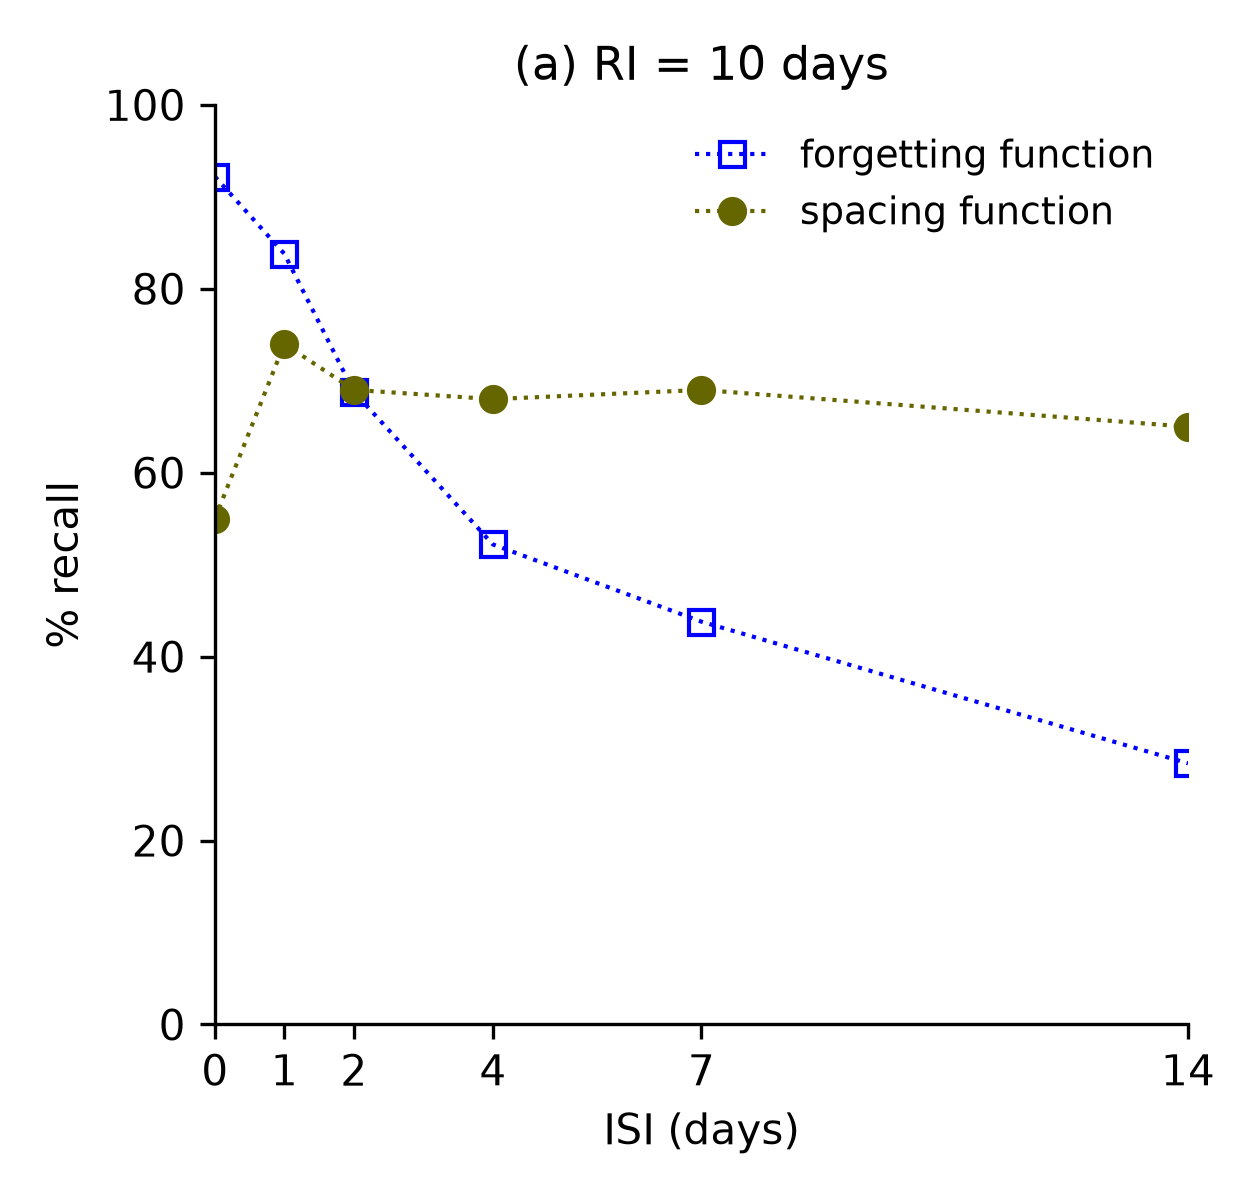
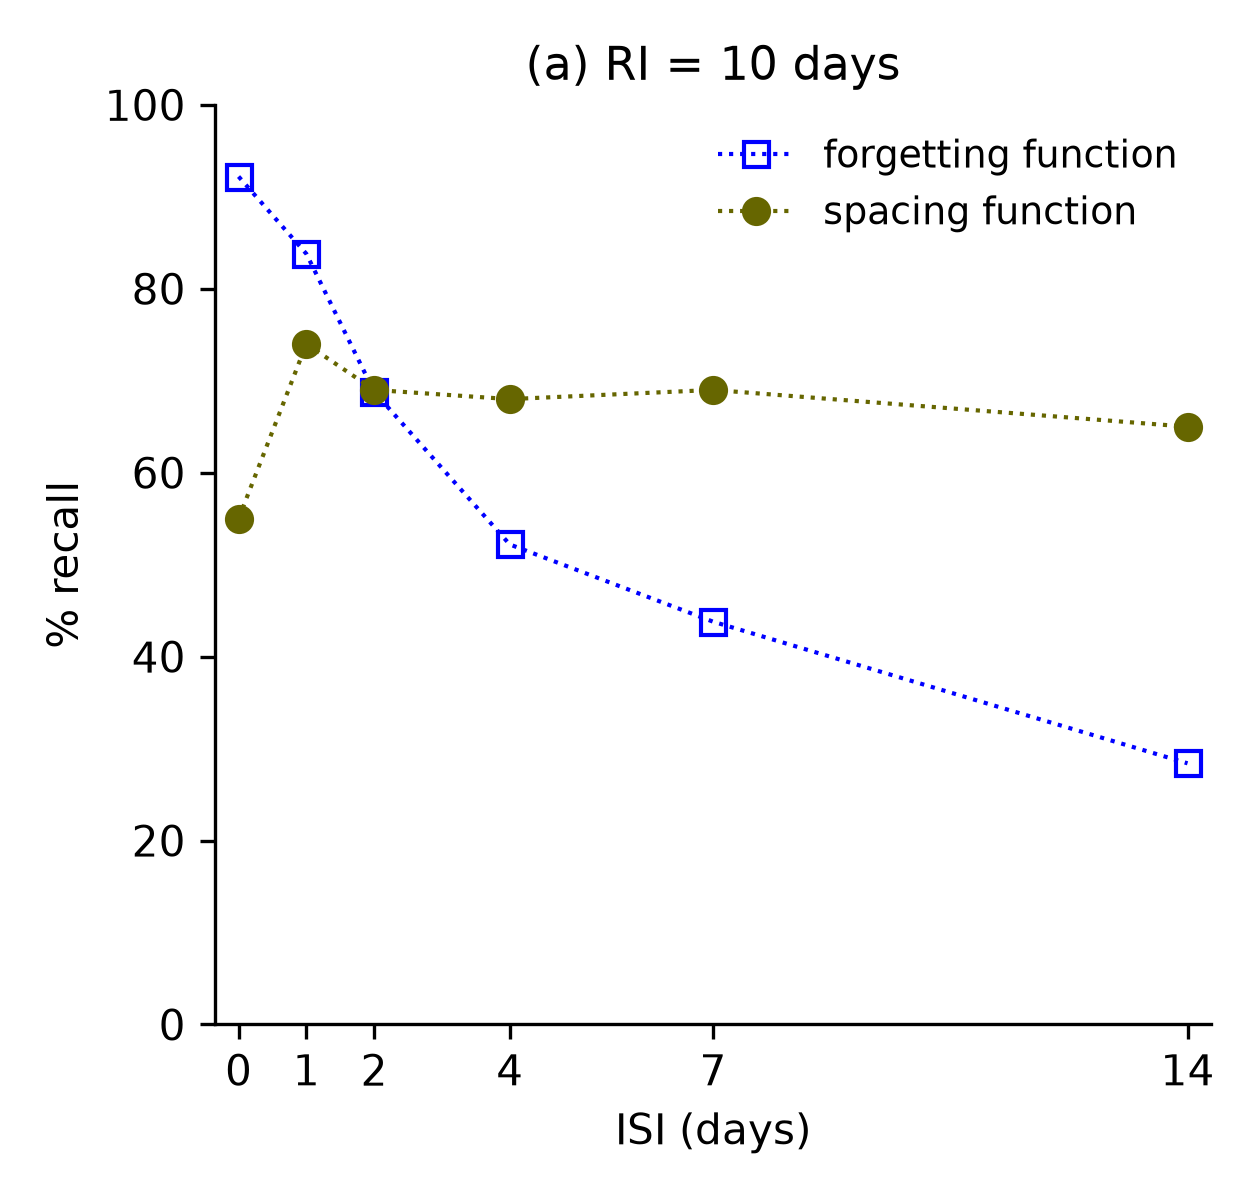
Fix figure margins and tick labels; add log-x versions of each panel
Pad the x axis so edge markers are not clipped, drop the tick labels
that collided near the origin, and produce a second version of each
panel with logarithmic x spacing (symlog: linear below 1 day so the
massed condition stays on the axis).

Claude-Session: https://claude.ai/code/session_018Ptc67jrzg3yLisSUza2Sw

diff --git a/src/plot_mozer2009_figure2.py b/src/plot_mozer2009_figure2.py
@@ -4,8 +4,14 @@ spacing function (filled olive circles) for Cepeda et al. (2009) Experiments 1,
 2a, and 2b. Panel d: spacing functions of Cepeda et al. (2008) for the four
 retention intervals.
 
+Each panel is produced twice: with a linear x axis (as in the source figure)
+and with logarithmic x spacing. Because the massed condition (ISI = 0) has no
+place on a log axis, the log versions use a symlog axis: linear below 1 day,
+logarithmic above.
+
 Usage: python src/plot_mozer2009_figure2.py
-Reads  data/mozer2009_figure2_recall.csv, writes figures/mozer2009_fig2{a,b,c,d}.png
+Reads  data/mozer2009_figure2_recall.csv,
+writes figures/mozer2009_fig2{a,b,c,d}.png and figures/mozer2009_fig2{a,b,c,d}_log.png
 """
 
 import csv
@@ -22,48 +28,65 @@ for r in rows:
     r["recall_pct"] = float(r["recall_pct"])
 
 panels = {
-    "a": dict(title="(a) RI = 10 days", xticks=[0, 1, 2, 4, 7, 14]),
-    "b": dict(title="(b) RI = 168 days", xticks=[0, 1, 7, 28, 84, 168]),
-    "c": dict(title="(c) RI = 168 days", xticks=[0, 1, 7, 28, 84, 168]),
+    "a": dict(title="(a) RI = 10 days", xticks=[0, 1, 2, 4, 7, 14],
+              xticks_linear=[0, 1, 2, 4, 7, 14]),
+    "b": dict(title="(b) RI = 168 days", xticks=[0, 1, 7, 28, 84, 168],
+              xticks_linear=[0, 7, 28, 84, 168]),  # "1" would overlap "0"
+    "c": dict(title="(c) RI = 168 days", xticks=[0, 1, 7, 28, 84, 168],
+              xticks_linear=[0, 7, 28, 84, 168]),
     "d": dict(title="(d) RIs = 7, 35, 70, 350 days",
-              xticks=[0, 1, 7, 14, 21, 35, 70, 105]),
+              xticks=[0, 1, 7, 14, 21, 35, 70, 105],
+              xticks_linear=[0, 7, 14, 21, 35, 70, 105],
+              # unlabeled marks at 14, 35, 70: their labels would collide in log spacing
+              xlabels_log=[0, 1, 7, 21, 105]),
 }
 OLIVE = "#666600"
 RI_COLORS = {7: "#FF0000", 35: "#A95400", 70: "#54A900", 350: "#00FF00"}
 
 for p, cfg in panels.items():
-    fig, ax = plt.subplots(figsize=(4.2, 4.0))
-    prows = [r for r in rows if r["panel"] == p]
-    if p == "d":
-        by_ri = defaultdict(list)
-        for r in prows:
-            by_ri[int(r["ri_days"])].append((r["isi_days"], r["recall_pct"]))
-        for ri, pts in sorted(by_ri.items()):
-            x, y = zip(*sorted(pts))
-            ax.plot(x, y, "o:", color=RI_COLORS[ri], mfc=RI_COLORS[ri],
-                    ms=6, lw=1, label=f"RI = {ri} d")
-        ax.legend(frameon=False, fontsize=9, ncol=2, loc="lower center",
-                  bbox_to_anchor=(0.55, 0.02), columnspacing=1.2)
-    else:
-        for func, style in [("forgetting", dict(marker="s", ls=":", color="#0000FF",
-                                                mfc="none", label="forgetting function")),
-                            ("spacing", dict(marker="o", ls=":", color=OLIVE,
-                                             mfc=OLIVE, label="spacing function"))]:
-            pts = sorted((r["isi_days"], r["recall_pct"])
-                         for r in prows if r["function"] == func)
-            x, y = zip(*pts)
-            ax.plot(x, y, ms=6, lw=1, **style)
-        ax.legend(frameon=False, fontsize=9)
-    ax.set_xlim(0, cfg["xticks"][-1])
-    ax.set_ylim(0, 100)
-    ax.set_xticks(cfg["xticks"])
-    ax.set_xlabel("ISI (days)")
-    ax.set_ylabel("% recall")
-    ax.set_title(cfg["title"], fontsize=11)
-    for side in ("top", "right"):
-        ax.spines[side].set_visible(False)
-    fig.tight_layout()
-    out = ROOT / "figures" / f"mozer2009_fig2{p}.png"
-    fig.savefig(out, dpi=300)
-    plt.close(fig)
-    print("wrote", out)
+    for scale in ("linear", "log"):
+        fig, ax = plt.subplots(figsize=(4.2, 4.0))
+        prows = [r for r in rows if r["panel"] == p]
+        if p == "d":
+            by_ri = defaultdict(list)
+            for r in prows:
+                by_ri[int(r["ri_days"])].append((r["isi_days"], r["recall_pct"]))
+            for ri, pts in sorted(by_ri.items()):
+                x, y = zip(*sorted(pts))
+                ax.plot(x, y, "o:", color=RI_COLORS[ri], mfc=RI_COLORS[ri],
+                        ms=6, lw=1, label=f"RI = {ri} d")
+            ax.legend(frameon=False, fontsize=9, ncol=2, loc="lower center",
+                      bbox_to_anchor=(0.55, 0.02), columnspacing=1.2)
+        else:
+            for func, style in [("forgetting", dict(marker="s", ls=":", color="#0000FF",
+                                                    mfc="none", label="forgetting function")),
+                                ("spacing", dict(marker="o", ls=":", color=OLIVE,
+                                                 mfc=OLIVE, label="spacing function"))]:
+                pts = sorted((r["isi_days"], r["recall_pct"])
+                             for r in prows if r["function"] == func)
+                x, y = zip(*pts)
+                ax.plot(x, y, ms=6, lw=1, **style)
+            ax.legend(frameon=False, fontsize=9)
+        xmax = cfg["xticks"][-1]
+        if scale == "log":
+            ax.set_xscale("symlog", linthresh=1)
+            ax.set_xlim(-0.12, xmax * 1.4)
+            labeled = cfg.get("xlabels_log", cfg["xticks"])
+            ax.set_xticks(cfg["xticks"])
+            ax.set_xticklabels([f"{t:g}" if t in labeled else "" for t in cfg["xticks"]])
+            ax.tick_params(which="minor", length=0)
+        else:
+            ax.set_xlim(-0.025 * xmax, 1.025 * xmax)
+            ax.set_xticks(cfg["xticks_linear"])
+        ax.set_ylim(0, 100)
+        ax.set_xlabel("ISI (days)")
+        ax.set_ylabel("% recall")
+        ax.set_title(cfg["title"], fontsize=11)
+        for side in ("top", "right"):
+            ax.spines[side].set_visible(False)
+        fig.tight_layout()
+        suffix = "_log" if scale == "log" else ""
+        out = ROOT / "figures" / f"mozer2009_fig2{p}{suffix}.png"
+        fig.savefig(out, dpi=300)
+        plt.close(fig)
+        print("wrote", out)

diff --git a/data/README.md b/data/README.md
@@ -9,7 +9,9 @@
   of Figure 2 in Mozer et al. (2009): the forgetting and spacing functions of
   Cepeda et al. (2009) Experiments 1, 2a, and 2b, and the spacing functions of
   the four retention-interval conditions of Cepeda et al. (2008).
-  Plotted by `src/plot_mozer2009_figure2.py` → `figures/mozer2009_fig2{a,b,c,d}.png`.
+  Plotted by `src/plot_mozer2009_figure2.py` → `figures/mozer2009_fig2{a,b,c,d}.png`
+  (linear x axis, as in the source figure) and `figures/mozer2009_fig2{a,b,c,d}_log.png`
+  (logarithmic x spacing; linear below ISI = 1 day so the massed condition stays on the axis).
 
 Both datasets were recovered directly from the embedded vector graphics of the
 Mozer et al. (2009) proceedings PDF — i.e., they are the exact plotted
